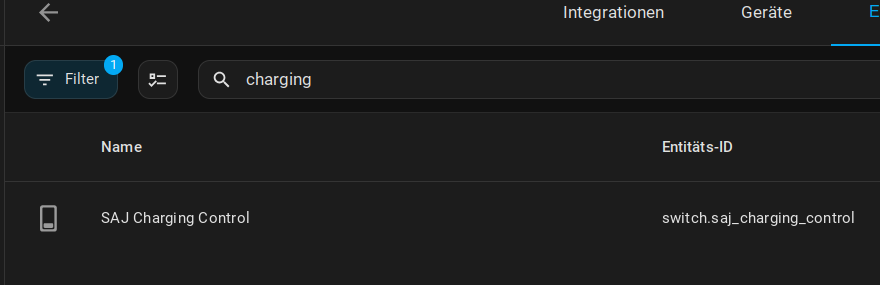
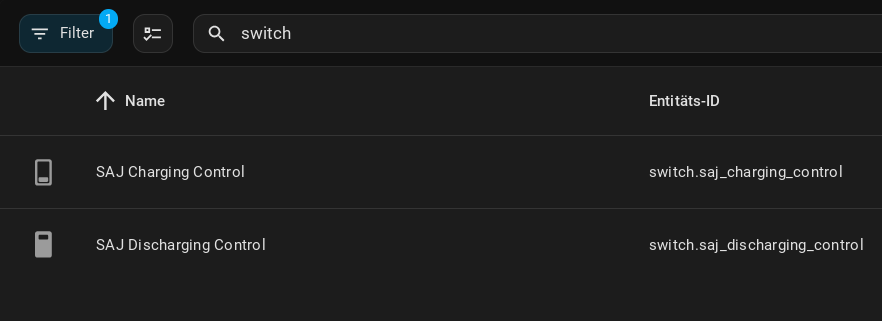
upda

diff --git a/custom_components/saj_modbus/modbus_utils.py b/custom_components/saj_modbus/modbus_utils.py
@@ -6,105 +6,44 @@ import inspect
 from pymodbus.client import AsyncModbusTcpClient
 from pymodbus.exceptions import ConnectionException, ModbusIOException
 
-# --- Type Aliases ---
 ModbusClient: TypeAlias = AsyncModbusTcpClient
 Lock: TypeAlias = asyncio.Lock
 
 _LOGGER = logging.getLogger(__name__)
 
 class ReconnectionNeededError(Exception):
-    """Special exception that signals that a reconnection is required."""
     pass
-
-# --- Utility Functions ---
-
-def _validate_response(response, address: int, unit: int, count: int) -> Optional[Exception]:
-    if not response:
-        return ModbusIOException("No response received")
-    if response.isError():
-        msg = getattr(response, 'message', str(response))
-        return ModbusIOException(f"Modbus Error Response: {msg}")
-    if not hasattr(response, 'registers') or response.registers is None:
-        return ModbusIOException("Invalid response object received")
-    if len(response.registers) != count:
-        return ModbusIOException(f"Incomplete response: expected {count}, got {len(response.registers)}")
-    return None
-
-async def _delay_retry(attempt: int, max_retries: int, factor: float = 2.0, cap: float = 10.0):
-    if attempt < max_retries - 1:
-        delay = min(factor * (attempt + 1), cap)
-        _LOGGER.info(f"Waiting {delay:.1f}s before retry {attempt + 2}/{max_retries}")
-        await asyncio.sleep(delay)
-
-# --- Core Functions ---
 
 async def safe_close(client: Optional[ModbusClient]) -> None:
     if not client:
-        _LOGGER.debug("safe_close called with no client instance.")
         return
-
-    if not client.connected:
-        _LOGGER.debug("safe_close called but client was not connected.")
-        return
-
     try:
-        _LOGGER.debug("Attempting to safely close Modbus connection.")
-        close_method = getattr(client, "close", None)
-        if close_method:
-            await close_method() if inspect.iscoroutinefunction(close_method) else close_method()
-            _LOGGER.debug("Close method called.")
-        else:
-            _LOGGER.warning("Client object has no 'close' method.")
+        close = getattr(client, "close", None)
+        if close:
+            await close() if inspect.iscoroutinefunction(close) else close()
     except Exception as e:
         _LOGGER.warning(f"Error during safe close: {e}", exc_info=True)
 
-async def ensure_connection(
-    client: ModbusClient,
-    host: str,
-    port: int,
-    max_retries: int = 3,
-    timeout_seconds: float = 10.0
-) -> bool:
-    if client and client.connected:
-        return True
-
-    if not client:
-        _LOGGER.error("ensure_connection called with an invalid client instance.")
-        return False
-
+async def ensure_connection(client: ModbusClient, host: str, port: int, max_retries: int = 3, timeout_seconds: float = 10.0) -> bool:
     for attempt in range(max_retries):
         try:
-            _LOGGER.debug(f"Connection attempt {attempt + 1}/{max_retries} to {host}:{port}")
+            _LOGGER.debug(f"Connecting to {host}:{port}, attempt {attempt + 1}/{max_retries}")
             await asyncio.wait_for(client.connect(), timeout=timeout_seconds)
-
             if client.connected:
-                _LOGGER.info(f"Successfully connected to Modbus server {host}:{port}.")
                 return True
-            else:
-                _LOGGER.warning(f"Connect attempt {attempt + 1} finished, but client is not marked as connected.")
-        except (asyncio.TimeoutError, ConnectionRefusedError, Exception) as e:
-            _LOGGER.warning(f"Error during connection attempt {attempt + 1} to {host}:{port}: {e}", exc_info=True)
-
-        await _delay_retry(attempt, max_retries)
-
-    _LOGGER.error(f"Failed to connect to Modbus server {host}:{port} after {max_retries} attempts.")
+        except Exception as e:
+            _LOGGER.warning(f"Connection error on attempt {attempt + 1}: {e}")
+        await asyncio.sleep(2)
     return False
 
-async def close_connection(
-    client: Optional[ModbusClient],
-    timeout_seconds: float = 5.0
-) -> None:
+async def close_connection(client: Optional[ModbusClient], timeout_seconds: float = 5.0) -> None:
     if not client:
-        _LOGGER.debug("close_connection called with no client instance.")
         return
-
     try:
-        _LOGGER.debug(f"Closing connection with {timeout_seconds}s timeout.")
         async with asyncio.timeout(timeout_seconds):
             await safe_close(client)
-        _LOGGER.debug("Connection close process finished.")
     except asyncio.TimeoutError:
-        _LOGGER.warning(f"Closing connection timed out after {timeout_seconds}s.")
+        _LOGGER.warning(f"Closing connection timed out after {timeout_seconds}s")
     except Exception as e:
         _LOGGER.warning(f"Error during close_connection: {e}", exc_info=True)
 
@@ -116,32 +55,39 @@ async def try_read_registers(
     count: int,
     max_retries: int = 3,
     base_delay: float = 2.0,
-    max_delay: float = 10.0
+    host: Optional[str] = None,
+    port: Optional[int] = None
 ) -> List[int]:
+    last_exception: Optional[Exception] = None
+
     if not client or not client.connected:
         _LOGGER.error(f"Read failed: Client not connected before attempting to read {count} registers from address {address}, unit {unit}.")
         raise ReconnectionNeededError("Client not connected, reconnection needed before reading")
 
-    last_exception: Optional[Exception] = None
     for attempt in range(max_retries):
         try:
-            _LOGGER.debug(f"Read attempt {attempt + 1}/{max_retries}: Reading {count} registers from address {address}, unit {unit}")
             async with read_lock:
-                response = await client.read_holding_registers(address=address, count=count, slave=unit)
-
-            err = _validate_response(response, address, unit, count)
-            if err:
-                _LOGGER.warning(f"Read attempt {attempt + 1} failed: {err}")
-                last_exception = err
+                coro = client.read_holding_registers(address=address, count=count, slave=unit)
+            resp = await coro
+            if resp and not resp.isError() and hasattr(resp, 'registers') and resp.registers:
+                return resp.registers
             else:
-                _LOGGER.debug(f"Read attempt {attempt + 1} successful for address {address}, unit {unit}.")
-                return response.registers
-
+                last_exception = ModbusIOException("Invalid or error response")
         except (ConnectionException, ModbusIOException, Exception) as e:
             _LOGGER.warning(f"Read attempt {attempt + 1} for address {address}, unit {unit}: {type(e).__name__}: {e}", exc_info=True)
             last_exception = e
 
-        await _delay_retry(attempt, max_retries, base_delay, max_delay)
+            if isinstance(e, ConnectionException) and host and port:
+                _LOGGER.info("Attempting reconnect due to connection loss...")
+                connected = await ensure_connection(client, host, port)
+                if not connected:
+                    _LOGGER.error("Reconnect failed")
+                    raise ReconnectionNeededError("Reconnect failed") from e
+
+        if attempt < max_retries - 1:
+            delay = min(base_delay * (2 ** attempt), 10.0)
+            _LOGGER.info(f"Waiting {delay:.1f}s before retry {attempt + 2}/{max_retries} for address {address}, unit {unit}")
+            await asyncio.sleep(delay)
 
     _LOGGER.error(f"All {max_retries} read attempts failed for address {address}, unit {unit}. Last error: {last_exception}")
-    raise ReconnectionNeededError(f"Reconnection needed after {max_retries} failed read attempts at address {address}, unit {unit}. Last error: {last_exception}") from last_exception
+    raise ReconnectionNeededError(f"Reconnection needed after {max_retries} failed read attempts at address {address}, unit {unit}. Last error: {last_exception}")

diff --git a/custom_components/saj_modbus/modbus_readers.py b/custom_components/saj_modbus/modbus_readers.py
@@ -321,7 +321,7 @@ async def read_anti_reflux_data(client: ModbusClient) -> DataDict:
     try:
         data = await _read_modbus_data(client, 0x365A, 3, decode_instructions, "anti_reflux_data", default_factor=1)
         
-        # Conversion of the AntiRefluxCurrentmode value to text
+        
         # Conversion of the AntiRefluxCurrentmode value to text
         if "AntiRefluxCurrentmode_raw" in data:
             mode_value = data.pop("AntiRefluxCurrentmode_raw")

diff --git a/README.md b/README.md
@@ -4,7 +4,7 @@
 
 # SAJ H2 Inverter Modbus - A Home Assistant integration for SAJ H2 Inverters
 
-## <span style="color:red;">New Feature added: "Charge battery with mains power", see under Features</span>
+## <span style="color:red;">New Feature added: "Charge battery with mains power", see the Features section below</span>
 
 Integration for reading data from SAJ Inverters through Modbus TCP.
 
@@ -15,22 +15,22 @@ It should work for Ampere Solar Inverter (EKD-Solar) too. They use SAJ HS2 Inver
 ## Features
 
 - Installation through Config Flow UI
-- Over 190 registers (power, energy, temperature sensors, battery ...)
+- Over 190 registers (power, energy, temperature sensors, battery...)
 - Configurable polling interval - changeable at any time
 - Smart Modbus connection management - especially for AIO3
 
-- **New Feature:** Configure Charging Time and Power, ability to switch the working mode between **Self-Consumption** / **Time-of-use-Mode** (to charge the battery with grid power) 
+- **New Feature:** Configure Charging Time and Power, ability to switch the working mode between **Self-Consumption** / **Time-of-Use Mode** (to charge the battery with grid power) 
 
 ## Installation
 
-This integration should be available in the HACS default repository. Simply go to HACS and search for "SAJ H2 Inverter Modbus", click it and click "Download". Don't forget to restart Home-Assistant. After restart, this integration can be configured through the integration setup UI.
+This integration should be available in the HACS default repository. Simply go to HACS and search for "SAJ H2 Inverter Modbus", click it and click "Download". Don't forget to restart Home Assistant. After restart, this integration can be configured through the integration setup UI.
 
 ## Configuration
 
 1. Navigate to the "Integrations" page in your configuration, then click "Add Integration" and select "SAJ H2 Modbus."
 2. Enter the IP Address and Interval.
 3. Optional: Setting the charge values for charging the battery from the grid >[read the instructions](https://github.com/stanus74/home-assistant-saj-h2-modbus/blob/main/working-mode-doc.pdf)
-4. Set charing values in Home Assistant , see below
+4. Set charging values in Home Assistant, see below
 
 ---
 
@@ -45,7 +45,7 @@ This release adds support for setting the max export power to the public grid.
   Value in **percent** – e.g. `500` = 50% of inverter max power (e.g. 4000 W for 8 kW inverter)
 
 #### 🆕 New Sensors:
-- **SAJ Anti-Reflux Power Limit** (`365AH`) – changable with Export Limit (Input)
+- **SAJ Anti-Reflux Power Limit** (`365AH`) – changeable with Export Limit (Input)
 - **SAJ Anti-Reflux Current Limit** (`365BH`)
 - **SAJ Anti-Reflux Current Mode** (`365CH`)
 
@@ -54,17 +54,33 @@ Perfect for zero export or dynamic grid feed-in limitation.
 ---
 
 
-### Configure Charging Time and Power
+### Configure Charging and Discharging Time and Power
 
-![Charging Settings](images/saj_h2_modbus/charing.png "Home Assistant SAJ H2 Charging Settings")
+![Charging Settings](images/saj_h2_modbus/switch.png "Switch to Time-of-Use Mode")
 
-- **What’s New**: The first four sensors display Charging Time, Days, and Power (as a percentage).
+You can set the Inverter to "Time-of-Use" Mode with this switch.
+Enable this switch to charge/discharge the battery.
+
+![Charging Settings](images/saj_h2_modbus/input1.png "Home Assistant SAJ H2 Charging Settings")
+
+
 - **Day Mask**: This is a bitmask to select charging days (e.g., Monday to Sunday = 127, calculated as 1 + 2 + 4 + 8 + 16 + 32 + 64).
+- **Charging/Discharging Power**: The power is set as a percentage of the inverter’s maximum capacity. For example, 10% of an 8000-watt inverter equals 800 watts. 
+
+
+![Charging Settings](images/saj_h2_modbus/input2.png "")
+
+
 - **Editable Registers**: Entities labeled "(Input)" and "(Time)" can be modified.
 
 **How It Works**: Values are written to the inverter via Modbus at the configured interval (e.g., every 60 seconds).
 
-**Charging Power**: The power is set as a percentage of the inverter’s maximum capacity. For example, 10% of an 8000-watt inverter equals 800 watts.
+
+To discharge from the battery, you must tick the 'Export' box in the SAJ App under 'Working Mode' > 'Time-of-Use'.
+
+![Charging Settings](images/saj_h2_modbus/export.jpg "enable discharging from battery")
+
+
 
 **Note**: The integration limits charging power to a maximum of 25%.
 
@@ -77,6 +93,7 @@ Perfect for zero export or dynamic grid feed-in limitation.
 - **Feature**: Use the switch to toggle between "Time-of-Use (Charging)" and "Self-Consumption" modes.
 
 ### Important! The status and mode will be updated after 1 interval
+
 
 
 ## Additional Information
